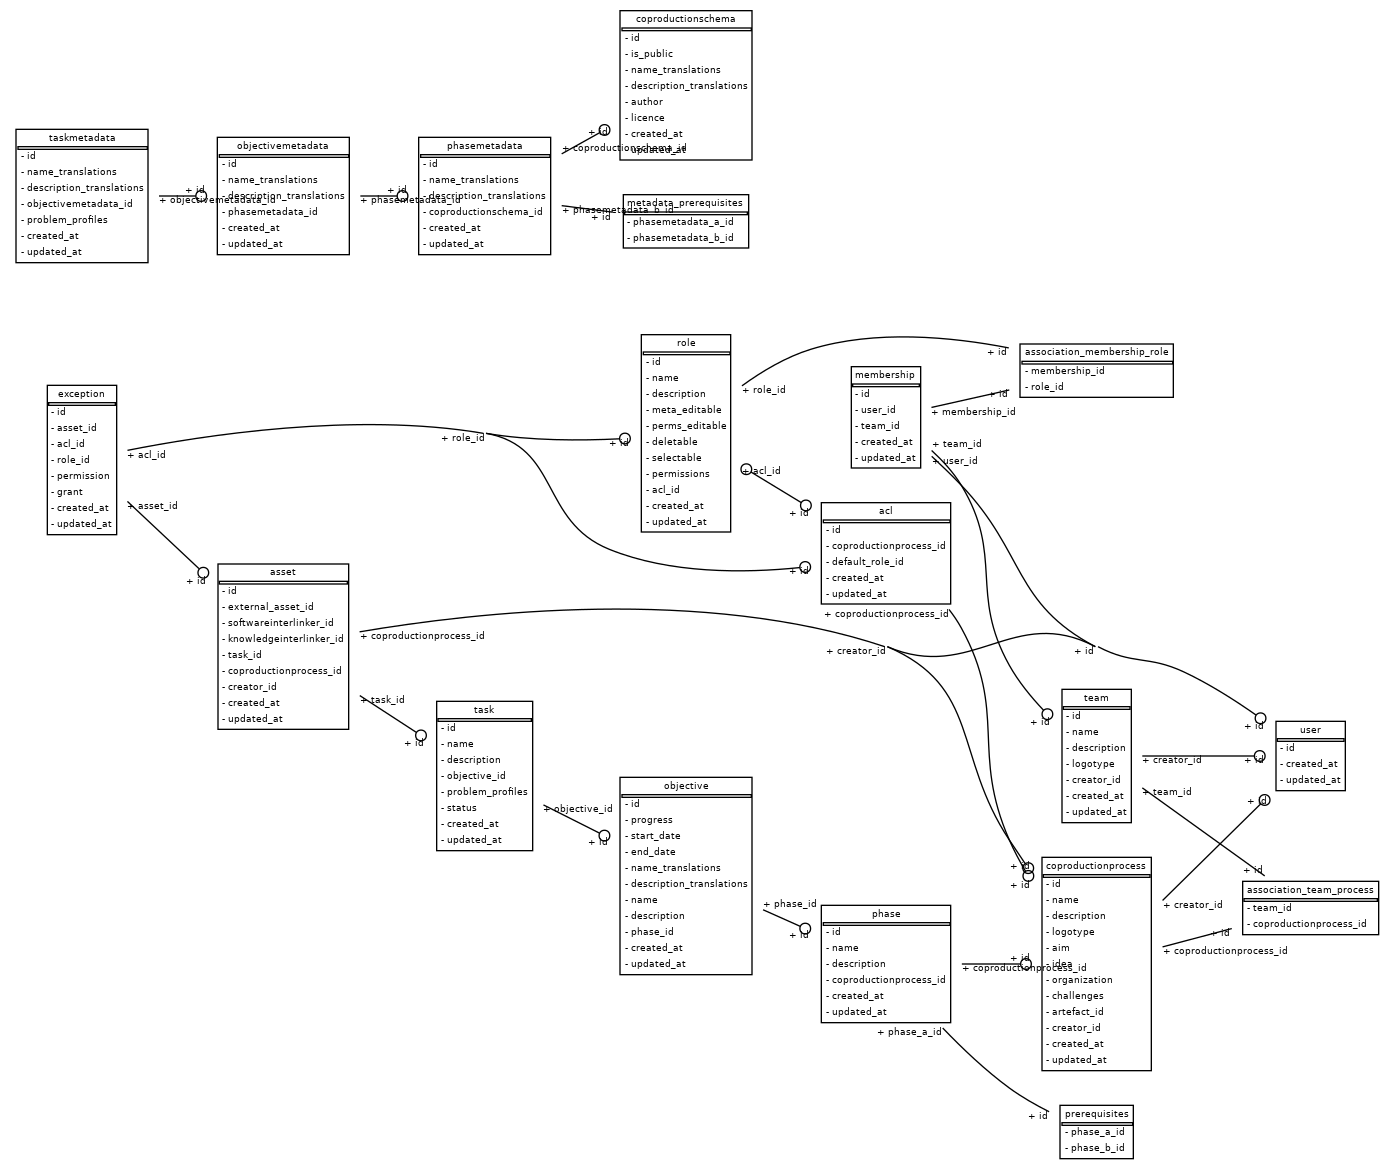
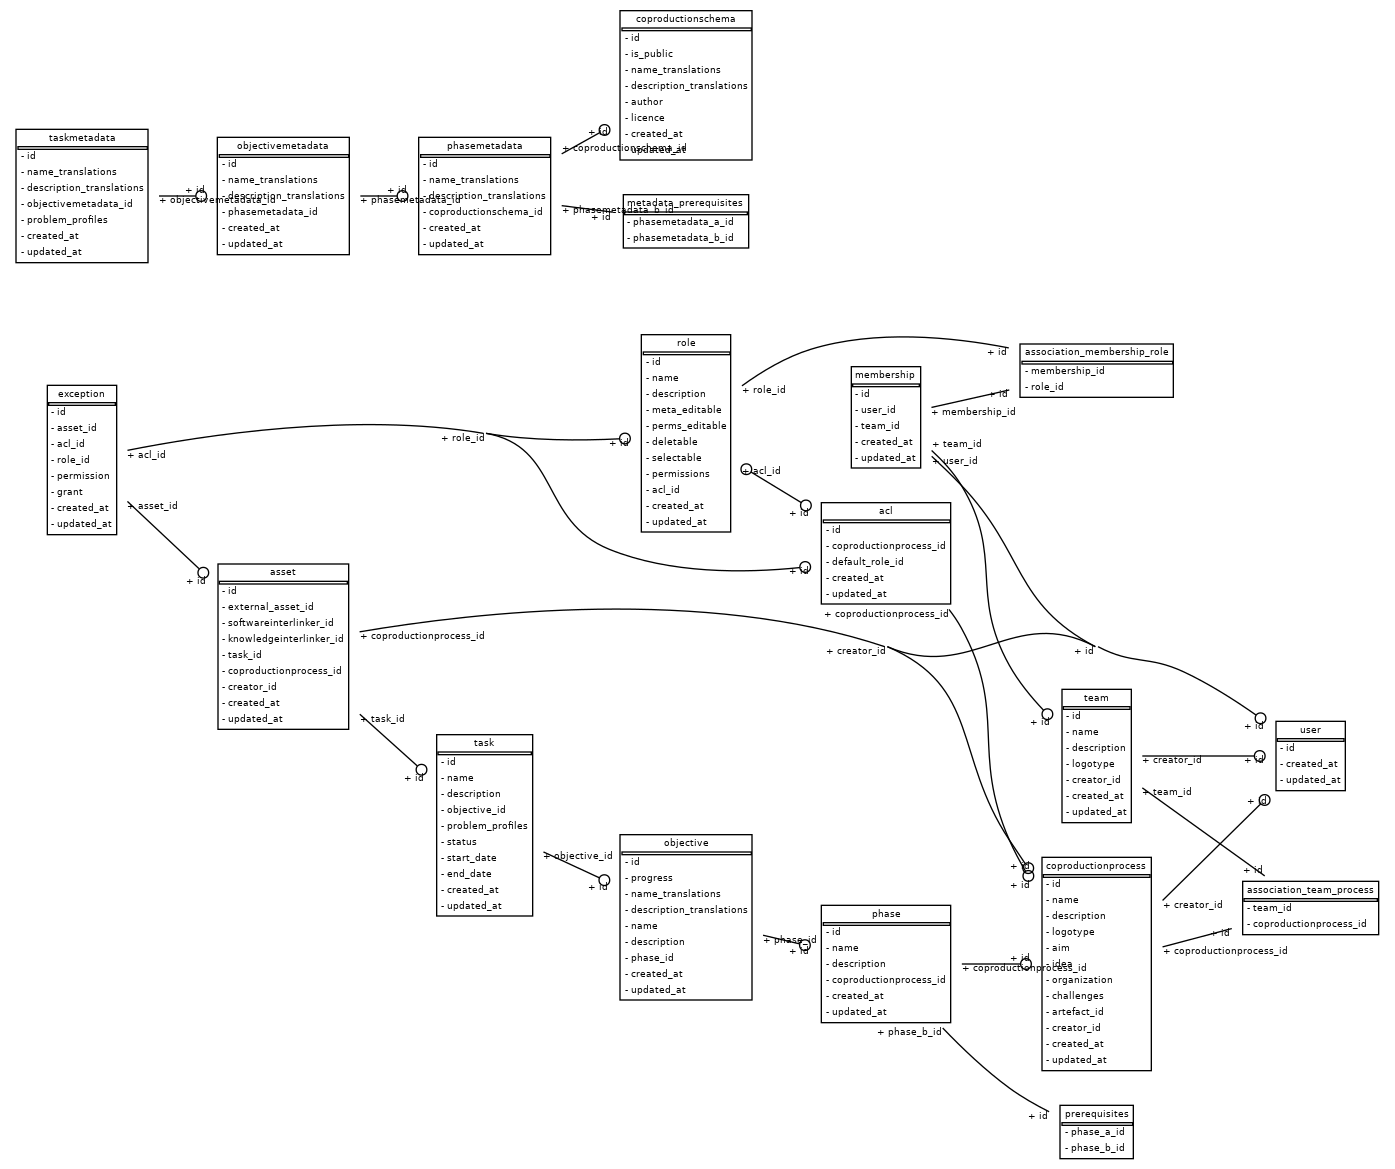
Start and end dates

diff --git a/coproduction/app/objectives/models.py b/coproduction/app/objectives/models.py
@@ -43,9 +43,6 @@ class ObjectiveMetadata(BaseModel):
 class Objective(BaseModel):
     id = Column(UUID(as_uuid=True), primary_key=True, default=uuid.uuid4)
     progress = Column(Integer, default=0)
-    start_date = Column(String, nullable=True)
-    end_date = Column(String, nullable=True)
-
     name_translations = Column(HSTORE)
     description_translations = Column(HSTORE)
 
@@ -59,6 +56,26 @@ class Objective(BaseModel):
     phase = relationship("Phase", back_populates="objectives")
 
     tasks = relationship("Task", back_populates="objective")
+
+    @property
+    def start_date(self):
+        lowest = None
+        for task in self.tasks:
+            if task.start_date:
+                var = datetime.strptime(task.start_date, "%Y-%m-%d")
+                if not lowest or var < lowest:
+                    lowest = var
+        return lowest
+
+    @property
+    def end_date(self):
+        greatest = None
+        for task in self.tasks:
+            if task.end_date:
+                var = datetime.strptime(task.end_date, "%Y-%m-%d")
+                if not greatest or var > greatest:
+                    greatest = var
+        return greatest
 
     def __repr__(self):
         return "<Objective %r>" % self.name

diff --git a/coproduction/app/tasks/schemas.py b/coproduction/app/tasks/schemas.py
@@ -15,7 +15,6 @@ class TaskMetadataBase(BaseModel):
     problem_profiles: list
     objectivemetadata_id: uuid.UUID
 
-
 class TaskMetadataCreate(TaskMetadataBase):
     name_translations: dict
     description_translations: dict
@@ -37,7 +36,6 @@ class TaskMetadataPatch(TaskMetadataBase):
     name_translations: Optional[dict]
     description_translations: Optional[dict]
 
-
 class TaskMetadata(TaskMetadataBase):
     id: uuid.UUID
     created_at: datetime
@@ -45,7 +43,7 @@ class TaskMetadata(TaskMetadataBase):
 
     name: str
     description: str
-
+    
     class Config:
         orm_mode = True
 
@@ -61,7 +59,8 @@ class TaskBase(BaseModel):
     name: str
     description: str
     objective_id: uuid.UUID
-
+    start_date: Optional[datetime]
+    end_date: Optional[datetime]
 
 class TaskCreate(TaskBase):
     name_translations: dict

diff --git a/coproduction/app/objectives/schemas.py b/coproduction/app/objectives/schemas.py
@@ -36,8 +36,6 @@ class ObjectiveMetadataOut(ObjectiveMetadata):
 
 class ObjectiveBase(BaseModel):
     progress: Optional[int]
-    start_date: Optional[date]
-    end_date: Optional[date]
     name: str
     description: str
     phase_id: uuid.UUID
@@ -54,6 +52,8 @@ class Objective(ObjectiveBase):
     id: uuid.UUID
     created_at: datetime
     updated_at: Optional[datetime]
+    start_date: Optional[date]
+    end_date: Optional[date]
     
     class Config:
         orm_mode = True

diff --git a/coproduction/app/phases/schemas.py b/coproduction/app/phases/schemas.py
@@ -54,6 +54,9 @@ class Phase(PhaseBase):
     id: uuid.UUID
     created_at: datetime
     updated_at: Optional[datetime]
+    
+    start_date: Optional[date]
+    end_date: Optional[date]
 
     class Config:
         orm_mode = True
@@ -62,6 +65,4 @@ class Phase(PhaseBase):
 class PhaseOut(Phase):
     # parent
     progress: int
-    start_date: Optional[date]
-    end_date: Optional[date]
     prerequisites_ids: List[uuid.UUID]

diff --git a/coproduction/app/tasks/crud.py b/coproduction/app/tasks/crud.py
@@ -61,7 +61,9 @@ class CRUDTask(CRUDBase[Task, TaskCreate, TaskPatch]):
             name=task.name,
             description=task.description,
             objective_id=task.objective_id,
-            problem_profiles=task.problem_profiles
+            problem_profiles=task.problem_profiles,
+            start_date=task.start_date,
+            end_date=task.end_date
         )
         db.add(db_obj)
         db.commit()

diff --git a/coproduction/app/objectives/crud.py b/coproduction/app/objectives/crud.py
@@ -66,8 +66,6 @@ class CRUDObjective(CRUDBase[Objective, ObjectiveCreate, ObjectivePatch]):
             name=objective.name,
             description=objective.description,
             progress=objective.progress,
-            start_date=objective.start_date,
-            end_date=objective.end_date,
             # relations
             phase_id=objective.phase_id,
         )

diff --git a/coproduction/app/tasks/models.py b/coproduction/app/tasks/models.py
@@ -69,5 +69,8 @@ class Task(BaseModel):
 
     status = Column(Enum(Status, create_constraint=False, native_enum=False), default=Status.awaiting)
     
+    start_date = Column(DateTime, nullable=True)
+    end_date = Column(DateTime, nullable=True)
+    
     def __repr__(self):
         return "<Task %r>" % self.name
